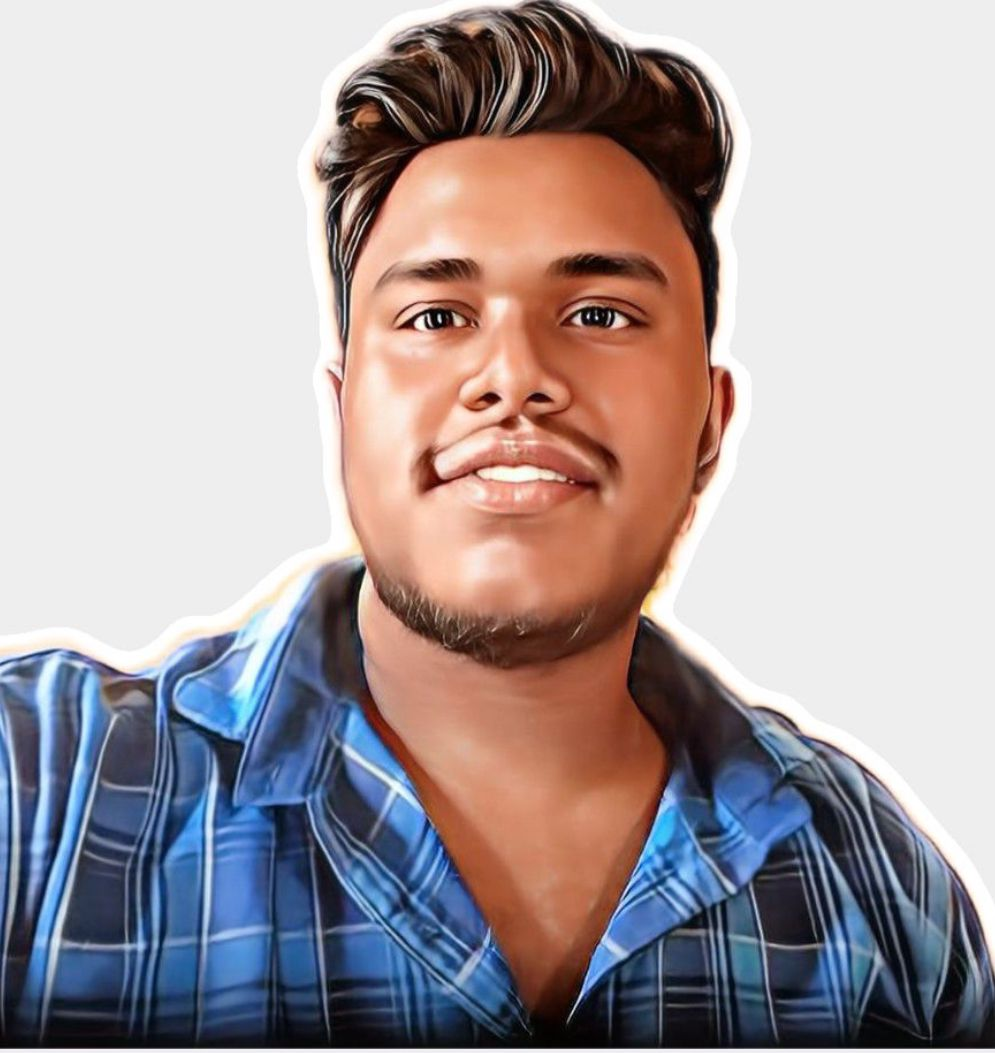
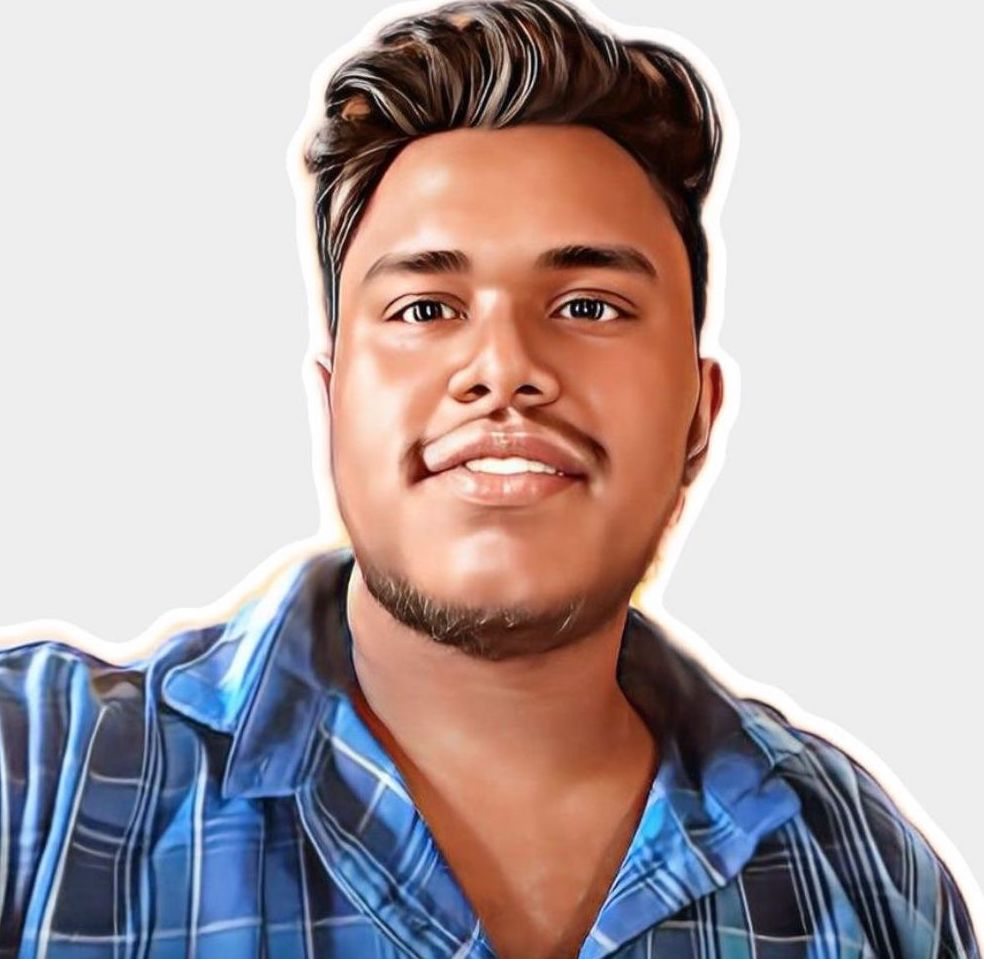
added new custom photo

diff --git a/components/People.tsx b/components/People.tsx
@@ -18,7 +18,21 @@ export default function People() {
                 </div>
             </div>
         </div>
-
+        <div className="underline underline-offset-8 text-xl md:text-3xl italic md:font-semibold tracking-wide text-slate-800 flex justify-center items-center p-8 mt-7">
+                <div className="md:text-5xl text-3xl mt-2 italic font-extrabold text-white">
+                    CO-CONVENOR
+                </div>
+        </div>
+        <div className="grid grid-cols-1 md:grid-cols-1 gap-10 mt-4 cursor-pointer justify-center items-center">
+            <div className="flex flex-col items-center justify-center rounded-full">
+                <div className="cursor-pointer">
+                    <Image src={'/jeshmita.jpeg'} alt="bgmi" width={160} height={10} className="border md:h-48 md:w-48 rounded-full mx-auto"/>
+                    <div className="text-lg text-white flex justify-center mt-5 font-bold md:text-2xl">Jeshmita</div>
+                    <div className="text-lg text-white flex justify-center font-bold md:text-2xl">Chatterjee</div>
+                </div>
+            </div>
+        </div>
+        
         {/* COORDINATOR */}
 
         <div className="underline underline-offset-8 text-xl md:text-2xl md:font-semibold tracking-wide mb-10 italic text-slate-800 flex justify-center items-center p-8 mt-7">
@@ -28,7 +42,38 @@ export default function People() {
         </div>
         
         <div className="grid grid-cols-2 md:grid-cols-4 gap-10 mt-4 cursor-pointer flex justify-center items-center ">
-                    <div className="flex flex-col items-center justify-center h-52 rounded-full">
+            
+                    <div className="flex flex-col items-center justify-center h-30 rounded-full">
+                        <div className="cursor-pointer">
+                        <Image src={'/kushal_karmakar.jpeg'} alt="bgmi" width={200} height={30} className="border md:h-48 md:w-48 rounded-full"/>
+                            <div className="text-lg text-white flex justify-center mt-7 font-bold md:text-2xl">Kushal </div>
+                            <div className="text-lg text-white flex justify-center font-bold md:text-2xl">Karmakar </div>
+                        </div>
+                    </div>
+                    <div className="flex flex-col items-center justify-center h-30 rounded-full">
+                        <div className="cursor-pointer">
+                        <Image src={'/tanusshree.jpeg'} alt="bgmi" width={200} height={40} className="border rounded-full"/>
+                        <div className="text-lg text-white flex justify-center mt-14 font-bold md:text-2xl">Tanushree Khan</div>
+                        </div>
+                    </div>
+                        
+                    <div className="flex flex-col items-center justify-center h-30 rounded-full">
+                        <div className="cursor-pointer">
+                            <Image src={'/debosmita.jpeg'} alt="bgmi" width={200} height={40} className="border md:h-52 rounded-full"/>
+                            <div className="text-lg text-white flex justify-center mt-14 font-bold md:text-2xl">Debosmita Das</div>
+                        </div>
+                    </div>
+                    <div className="flex flex-col items-center justify-center h-30 rounded-full">
+                        <div className="cursor-pointer">
+                            <Image src={'/arnab_saha.jpeg'} alt="bgmi" width={200} height={40} className="border md:h-52 rounded-full"/>
+                            <div className="text-lg text-white flex justify-center mt-14 font-bold md:text-2xl">Arpan Saha</div>
+                        </div>
+                    </div>
+        </div>            
+
+
+        {/*event head
+         <div className="flex flex-col items-center justify-center h-52 rounded-full">
                         <div className="cursor-pointer">
                             <Image src={'/sanjib.jpeg'} alt="bgmi" width={200} height={40} className="border md:h-52 rounded-full"/>
                             <div className="text-lg text-white flex justify-center mt-5 font-bold md:text-2xl">Sanjib Ghosh</div>
@@ -40,23 +85,41 @@ export default function People() {
                             <div className="text-lg text-white flex justify-center mt-5 font-bold md:text-2xl">Mousumi Ghosh</div>
                         </div>
                     </div>
-                    <div className="flex flex-col items-center justify-center h-30 rounded-full">
-                        <div className="cursor-pointer">
-                            <Image src={'/debosmita.jpeg'} alt="bgmi" width={200} height={40} className="border md:h-52 rounded-full"/>
-                            <div className="text-lg text-white flex justify-center mt-5 font-bold md:text-2xl">Debosmita Das</div>
+        */}
+        <div className="underline underline-offset-8 text-xl md:text-3xl italic md:font-semibold tracking-wide text-slate-800 flex justify-center items-center p-8 mt-7">
+                <div className="md:text-5xl text-3xl mt-2 italic font-extrabold text-white">
+                    MARKETING
+                </div>
+        </div>
+        <div className="grid grid-cols-2 md:grid-cols-4 gap-10 mt-4 cursor-pointer justify-center items-center">
+            <div className="flex flex-col items-center justify-center rounded-full">
+                <div className="cursor-pointer">
+                    <Image src={'/sanjib.jpeg'} alt="bgmi" width={160} height={10} className="border md:h-48 md:w-48 rounded-full mx-auto"/>
+                    <div className="text-lg text-white flex justify-center mt-14 font-bold md:text-2xl">Sanjib Ghosh</div>
+                </div>
+            </div>
+            <div className="flex flex-col items-center justify-center rounded-full">
+                <div className="cursor-pointer">
+                <Image src={'/sahisnu.jpeg'} alt="bgmi" width={160} height={10} className="border md:h-48 md:w-48 rounded-full mx-auto"/>
+                                <div className="text-lg text-white flex justify-center mt-7 font-bold md:text-2xl">Sahisnu Das </div>
+                                <div className="text-lg text-white flex justify-center font-bold md:text-2xl">Pattanayak</div>
+                </div>
+            </div>
+            <div className="flex flex-col items-center justify-center rounded-full">
+                <div className="cursor-pointer">
+                <Image src={'/khusi.jpeg'} alt="bgmi" width={200} height={40} className="border rounded-full"/>
+                            <div className="text-lg text-white flex justify-center mt-14 font-bold md:text-2xl">Khusi Yadav </div>
+                </div>
+            </div>
+            <div className="flex flex-col items-center justify-center rounded-full">
+            <div className="cursor-pointer ">
+                            <Image src={'/anish.jpeg'} alt="bgmi" width={200} height={40} className="border rounded-full"/>
+                            <div className="text-lg text-white flex justify-center mt-14 font-bold md:text-2xl">Anish Khan </div>
                         </div>
-                    </div>
-                    <div className="flex flex-col items-center justify-center h-30 rounded-full">
-                        <div className="cursor-pointer">
-                            <Image src={'/arnab_saha.jpeg'} alt="bgmi" width={200} height={40} className="border md:h-52 rounded-full"/>
-                            <div className="text-lg text-white flex justify-center mt-5 font-bold md:text-2xl">Arpan Saha</div>
-                        </div>
-                    </div>
-        </div>            
+            </div>
+        </div>
+    
 
-
-        {/*event head*/}
-        
         <div className="underline underline-offset-8 text-xl md:text-3xl md:font-semibold tracking-wide text-slate-800 flex justify-center items-center mb-10 p-8 mt-7">
                 <div className="md:text-5xl text-3xl mt-4 mb-5 italic font-extrabold text-white">
                     HEAD
@@ -68,12 +131,6 @@ export default function People() {
                             <img src={'/sayan.jpeg'} alt="bgmi" width={200} height={40} className="border rounded-full"/>
                             <div className="text-lg text-white flex justify-center mt-14 font-bold md:text-2xl">Sayan Das </div>
                         
-                        </div>
-            </div>
-            <div className="flex flex-col items-center justify-center h-30 rounded-full ">
-                        <div className="cursor-pointer ">
-                            <Image src={'/anish.jpeg'} alt="bgmi" width={200} height={40} className="border rounded-full"/>
-                            <div className="text-lg text-white flex justify-center mt-14 font-bold md:text-2xl">Anish Khan </div>
                         </div>
             </div>
             <div className="flex flex-col items-center justify-center h-30 rounded-3xl ">
@@ -98,22 +155,7 @@ export default function People() {
             <div className="flex flex-col items-center justify-center h-30 rounded-full ">
                         <div className="cursor-pointer ">
                             <Image src={'/avirup.jpeg'} alt="bgmi" width={200} height={40} className="border rounded-full"/>
-                            <div className="text-lg text-white flex justify-center mt-14 font-bold md:text-2xl">Avitup Ghoshal </div>
-                            
-                        </div>
-            </div>
-            <div className="flex flex-col items-center justify-center h-30 rounded-full ">
-                        <div className="cursor-pointer ">
-                            <Image src={'/jeshmita.jpeg'} alt="bgmi" width={200} height={40} className="border rounded-full"/>
-                            <div className="text-lg text-white flex justify-center mt-7 font-bold md:text-2xl">Jeshmita</div>
-                            <div className="text-lg text-white flex justify-center font-bold md:text-2xl">Chatterjee</div>
-                            
-                        </div>
-            </div>
-            <div className="flex flex-col items-center justify-center h-30 rounded-full ">
-                        <div className="cursor-pointer ">
-                            <Image src={'/tanusshree.jpeg'} alt="bgmi" width={200} height={40} className="border rounded-full"/>
-                            <div className="text-lg text-white flex justify-center mt-14 font-bold md:text-2xl">Tanushree Khan</div>
+                            <div className="text-lg text-white flex justify-center mt-14 font-bold md:text-2xl">Avirup Ghoshal </div>
                             
                         </div>
             </div>
@@ -133,13 +175,6 @@ export default function People() {
             </div>
             <div className="flex flex-col items-center justify-center h-30 rounded-full ">
                         <div className="cursor-pointer ">
-                            <Image src={'/khusi.jpeg'} alt="bgmi" width={200} height={40} className="border rounded-full"/>
-                            <div className="text-lg text-white flex justify-center mt-14 font-bold md:text-2xl">Khusi Yadav </div>
-                            
-                        </div>
-            </div>
-            <div className="flex flex-col items-center justify-center h-30 rounded-full ">
-                        <div className="cursor-pointer ">
                             <Image src={'/sunny_shah.jpeg'} alt="bgmi" width={200} height={40} className="border rounded-full"/>
                             <div className="text-lg text-white flex justify-center mt-14 font-bold md:text-2xl">Sunny Shah</div>
                             
@@ -149,14 +184,6 @@ export default function People() {
                         <div className="cursor-pointer ">
                             <Image src={'/monika_jha.jpeg'} alt="bgmi" width={200} height={40} className="border rounded-full"/>
                             <div className="text-lg text-white flex justify-center mt-14 font-bold md:text-2xl">Monika Jha </div>
-                            
-                        </div>
-            </div>
-            <div className="flex flex-col items-center justify-center h-30 rounded-full ">
-                        <div className="cursor-pointer ">
-                            <Image src={'/kushal_karmakar.jpeg'} alt="bgmi" width={200} height={30} className="border md:h-52 md:w-52 rounded-full"/>
-                            <div className="text-lg text-white flex justify-center mt-7 font-bold md:text-2xl">Kushal </div>
-                            <div className="text-lg text-white flex justify-center font-bold md:text-2xl">Karmakar </div>
                             
                         </div>
             </div>
@@ -177,7 +204,7 @@ export default function People() {
             </div>
             <div className="flex flex-col items-center justify-center h-30 rounded-full md:flex md:justify-center md:items-center">
                             <div className="cursor-pointer ">
-                                <Image src={'/ujjal_bhattacharya.jpeg'} alt="bgmi" width={200} height={30} className="border md:h-52 md:w-52 rounded-full"/>
+                                <Image src={'/ujjal_bhattacharya.jpeg'} alt="bgmi" width={200} height={40} className="border md:h-52 md:w-52 rounded-full"/>
                                 <div className="text-lg text-white flex justify-center mt-5 font-bold md:text-2xl">Ujjal </div>
                                 <div className="text-lg text-white flex justify-center font-bold md:text-2xl">Bhattacharya</div>
                         
@@ -185,7 +212,7 @@ export default function People() {
             </div>
             <div className="flex flex-col items-center justify-center h-30 rounded-full md:flex md:justify-center md:items-center">
                             <div className="cursor-pointer ">
-                                <Image src={'/shrayasee_gain.jpeg'} alt="bgmi" width={200} height={30} className="border md:h-52 md:w-52 rounded-full"/>
+                                <Image src={'/shrayshee.jpeg'} alt="bgmi" width={200} height={40} className="border md:h-52 md:w-52 rounded-full"/>
                                 <div className="text-lg text-white flex justify-center mt-12 font-bold md:text-2xl">Shrayasee Gain</div>
                         
                             </div>
@@ -204,15 +231,6 @@ export default function People() {
                             <div className="cursor-pointer ">
                                 <Image src={'/ujan.jpeg'} alt="bgmi" width={200} height={40} className="border rounded-full"/>
                                 <div className="text-lg text-white flex justify-center mt-14 font-bold md:text-2xl">Ujan Ghosh</div>
-                                
-                            </div>
-            </div>
-            <div className="flex flex-col items-center justify-center h-30 rounded-full ">
-                            <div className="cursor-pointer ">
-                                <Image src={'/sahisnu.jpeg'} alt="bgmi" width={200} height={40}  className="border rounded-full"/>
-                                <div className="text-lg text-white flex justify-center mt-7 font-bold md:text-2xl">Sahisnu Das </div>
-                                <div className="text-lg text-white flex justify-center font-bold md:text-2xl">Pattanayak</div>
-
                                 
                             </div>
             </div>
@@ -314,14 +332,6 @@ export default function People() {
                             <div className="cursor-pointer ">
                                 <Image src={'/rahul_sau.jpeg'} alt="bgmi" width={200} height={40} className="border md:h-52 md:w-52 rounded-full"/>
                                 <div className="text-lg text-white flex justify-center mt-14 font-bold md:text-2xl">Rahul Sau</div>
-                        
-                            </div>
-            </div>
-            <div className="flex flex-col items-center justify-center h-30 rounded-full md:flex md:justify-center md:items-center">
-                            <div className="cursor-pointer ">
-                                <Image src={'/shovon.jpeg'} alt="bgmi" width={200} height={40} className="border md:h-52 md:w-52 rounded-full"/>
-                                <div className="text-lg text-white flex justify-center mt-7 font-bold md:text-2xl">Shovan </div>
-                                <div className="text-lg text-white flex justify-center font-bold md:text-2xl">Chaudhuri </div>
                         
                             </div>
             </div>

diff --git a/components/HeroContent.tsx b/components/HeroContent.tsx
@@ -58,9 +58,9 @@ export default function HeroContent() {
           className="flex flex-col gap-6 mt-4 md:ml-0 ml-10  font-bold text-white max-w-[600px] w-auto h-auto"
         >
             <Link href="https://docs.google.com/forms/d/e/1FAIpQLScyMcEFcT7tbpK6K9vMdo7ZD65B_CpX5wlSH8sVj8AQBkID8w/viewform?vc=0&c=0&w=1&flr=0&usp=mail_form_link">
-          <div className="container mt-10 glow-on-hover text-center flex flex-col justify-center">
-                Register Events
-          </div>
+              <div className="container mt-10 glow-on-hover text-center flex flex-col justify-center">
+                    Register Events
+              </div>
             </Link>
         </motion.div>
       </div>

diff --git a/components/Events.tsx b/components/Events.tsx
@@ -63,7 +63,7 @@ export default async function Events() {
                         
                         <Link href="/"  className="cursor-pointer">
                             <img src={chess.src} alt="bgmi" className="border rounded-full"/>
-                            <div className="text-lg text-white flex justify-center mt-10 font-bold md:text-2xl">CHECKMATE</div>
+                            <div className="text-lg text-white flex justify-center mt-4 font-bold md:text-2xl">CHECKMATE</div>
                             
                         </Link>
                     </div>

diff --git a/app/about/page.tsx b/app/about/page.tsx
@@ -14,6 +14,5 @@ export default function event() {
         <People />
         <FunnySmile />
         <Footer />
-        
     </div>
 }
